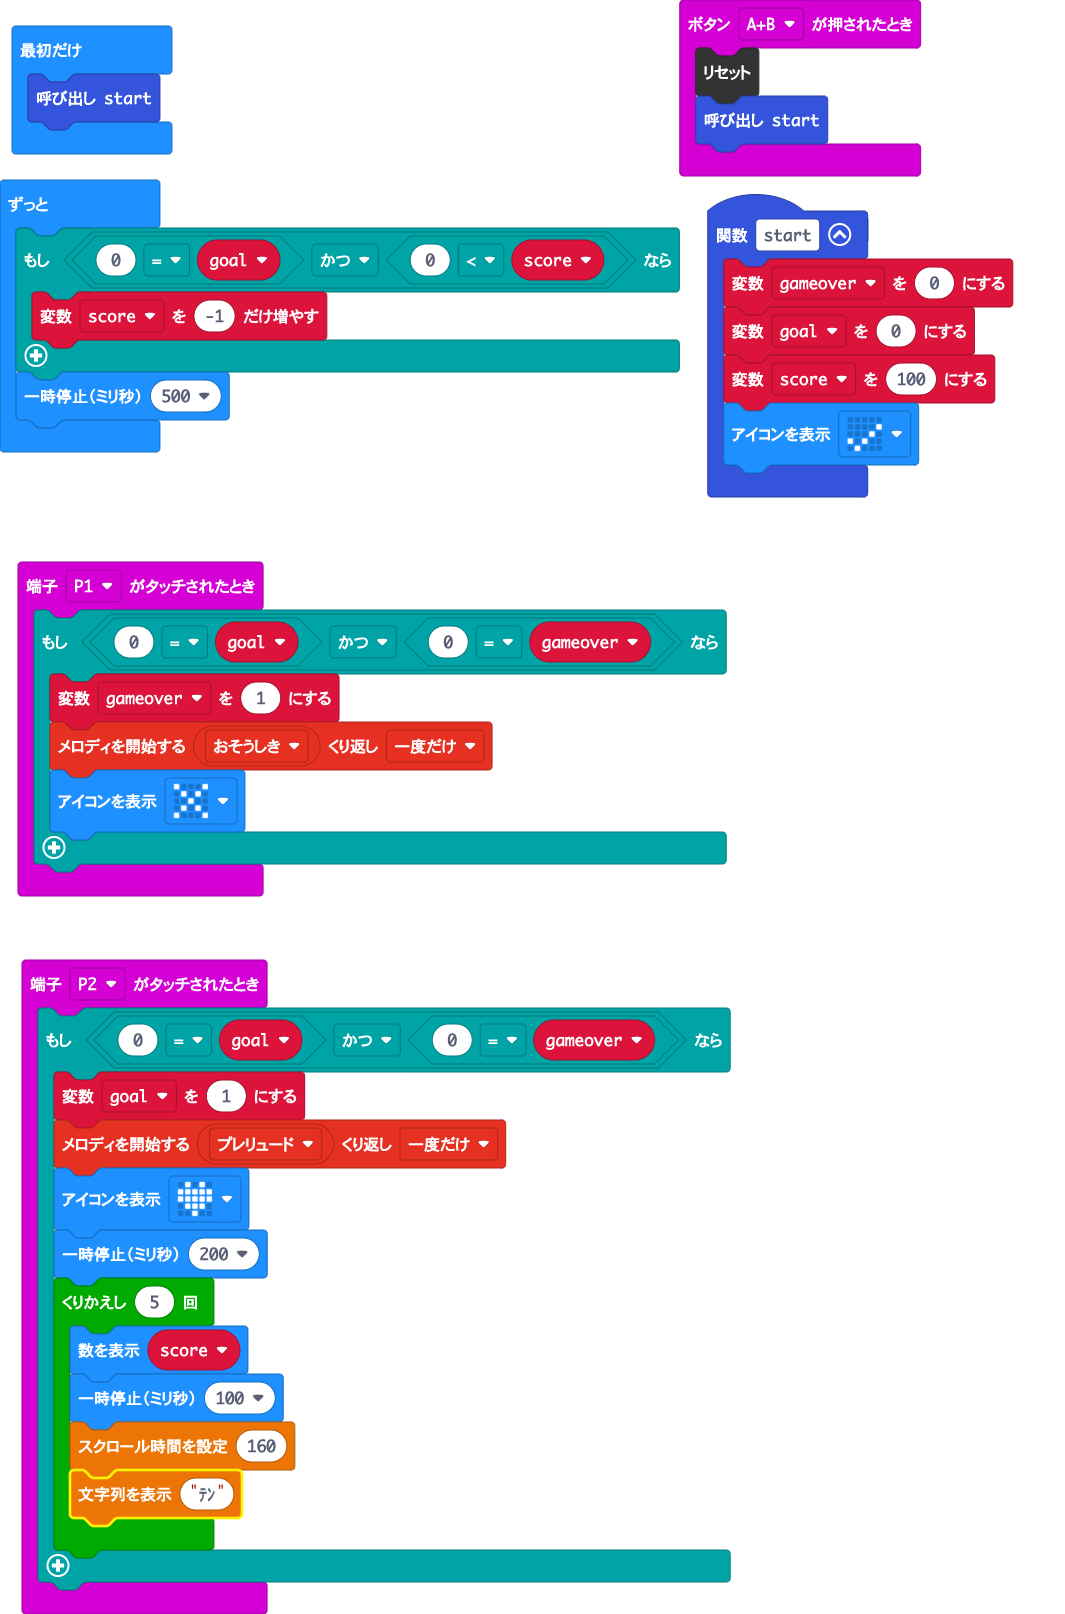
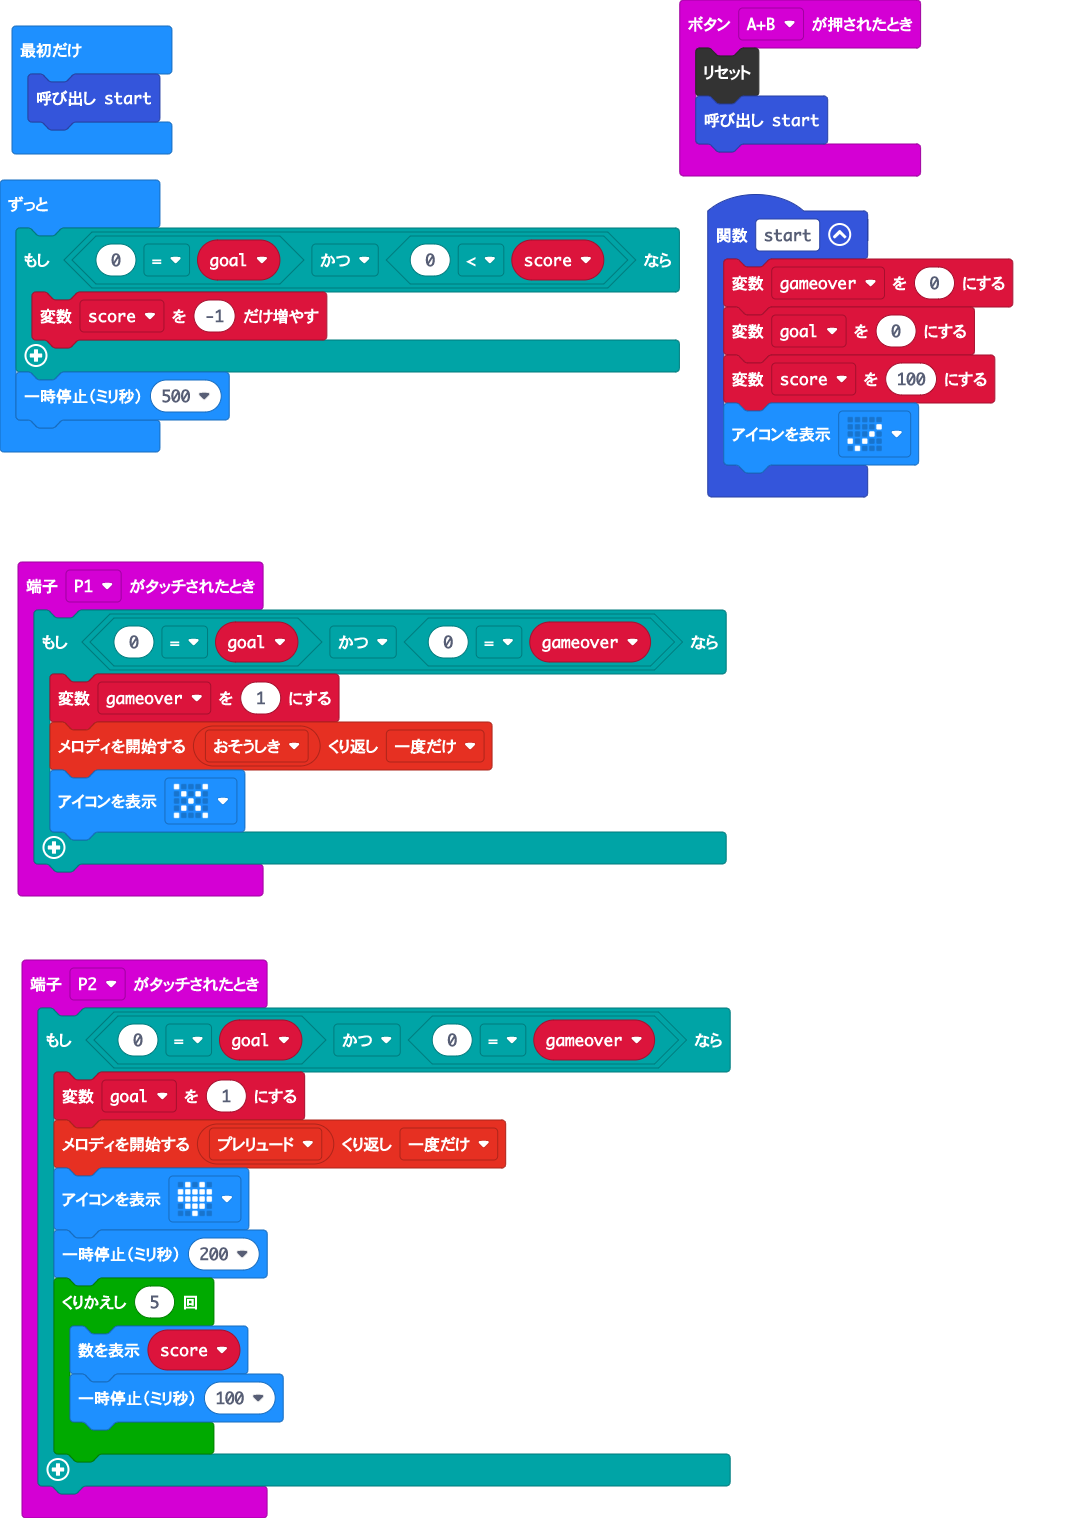
removed　ｶﾀｶﾅ

diff --git a/main.ts b/main.ts
@@ -7,8 +7,6 @@ input.onPinPressed(TouchPin.P2, function () {
         for (let index = 0; index < 5; index++) {
             basic.showNumber(score)
             basic.pause(100)
-            katakana.setScrollTime(160)
-            katakana.showString("ﾃﾝ")
         }
     }
 })
